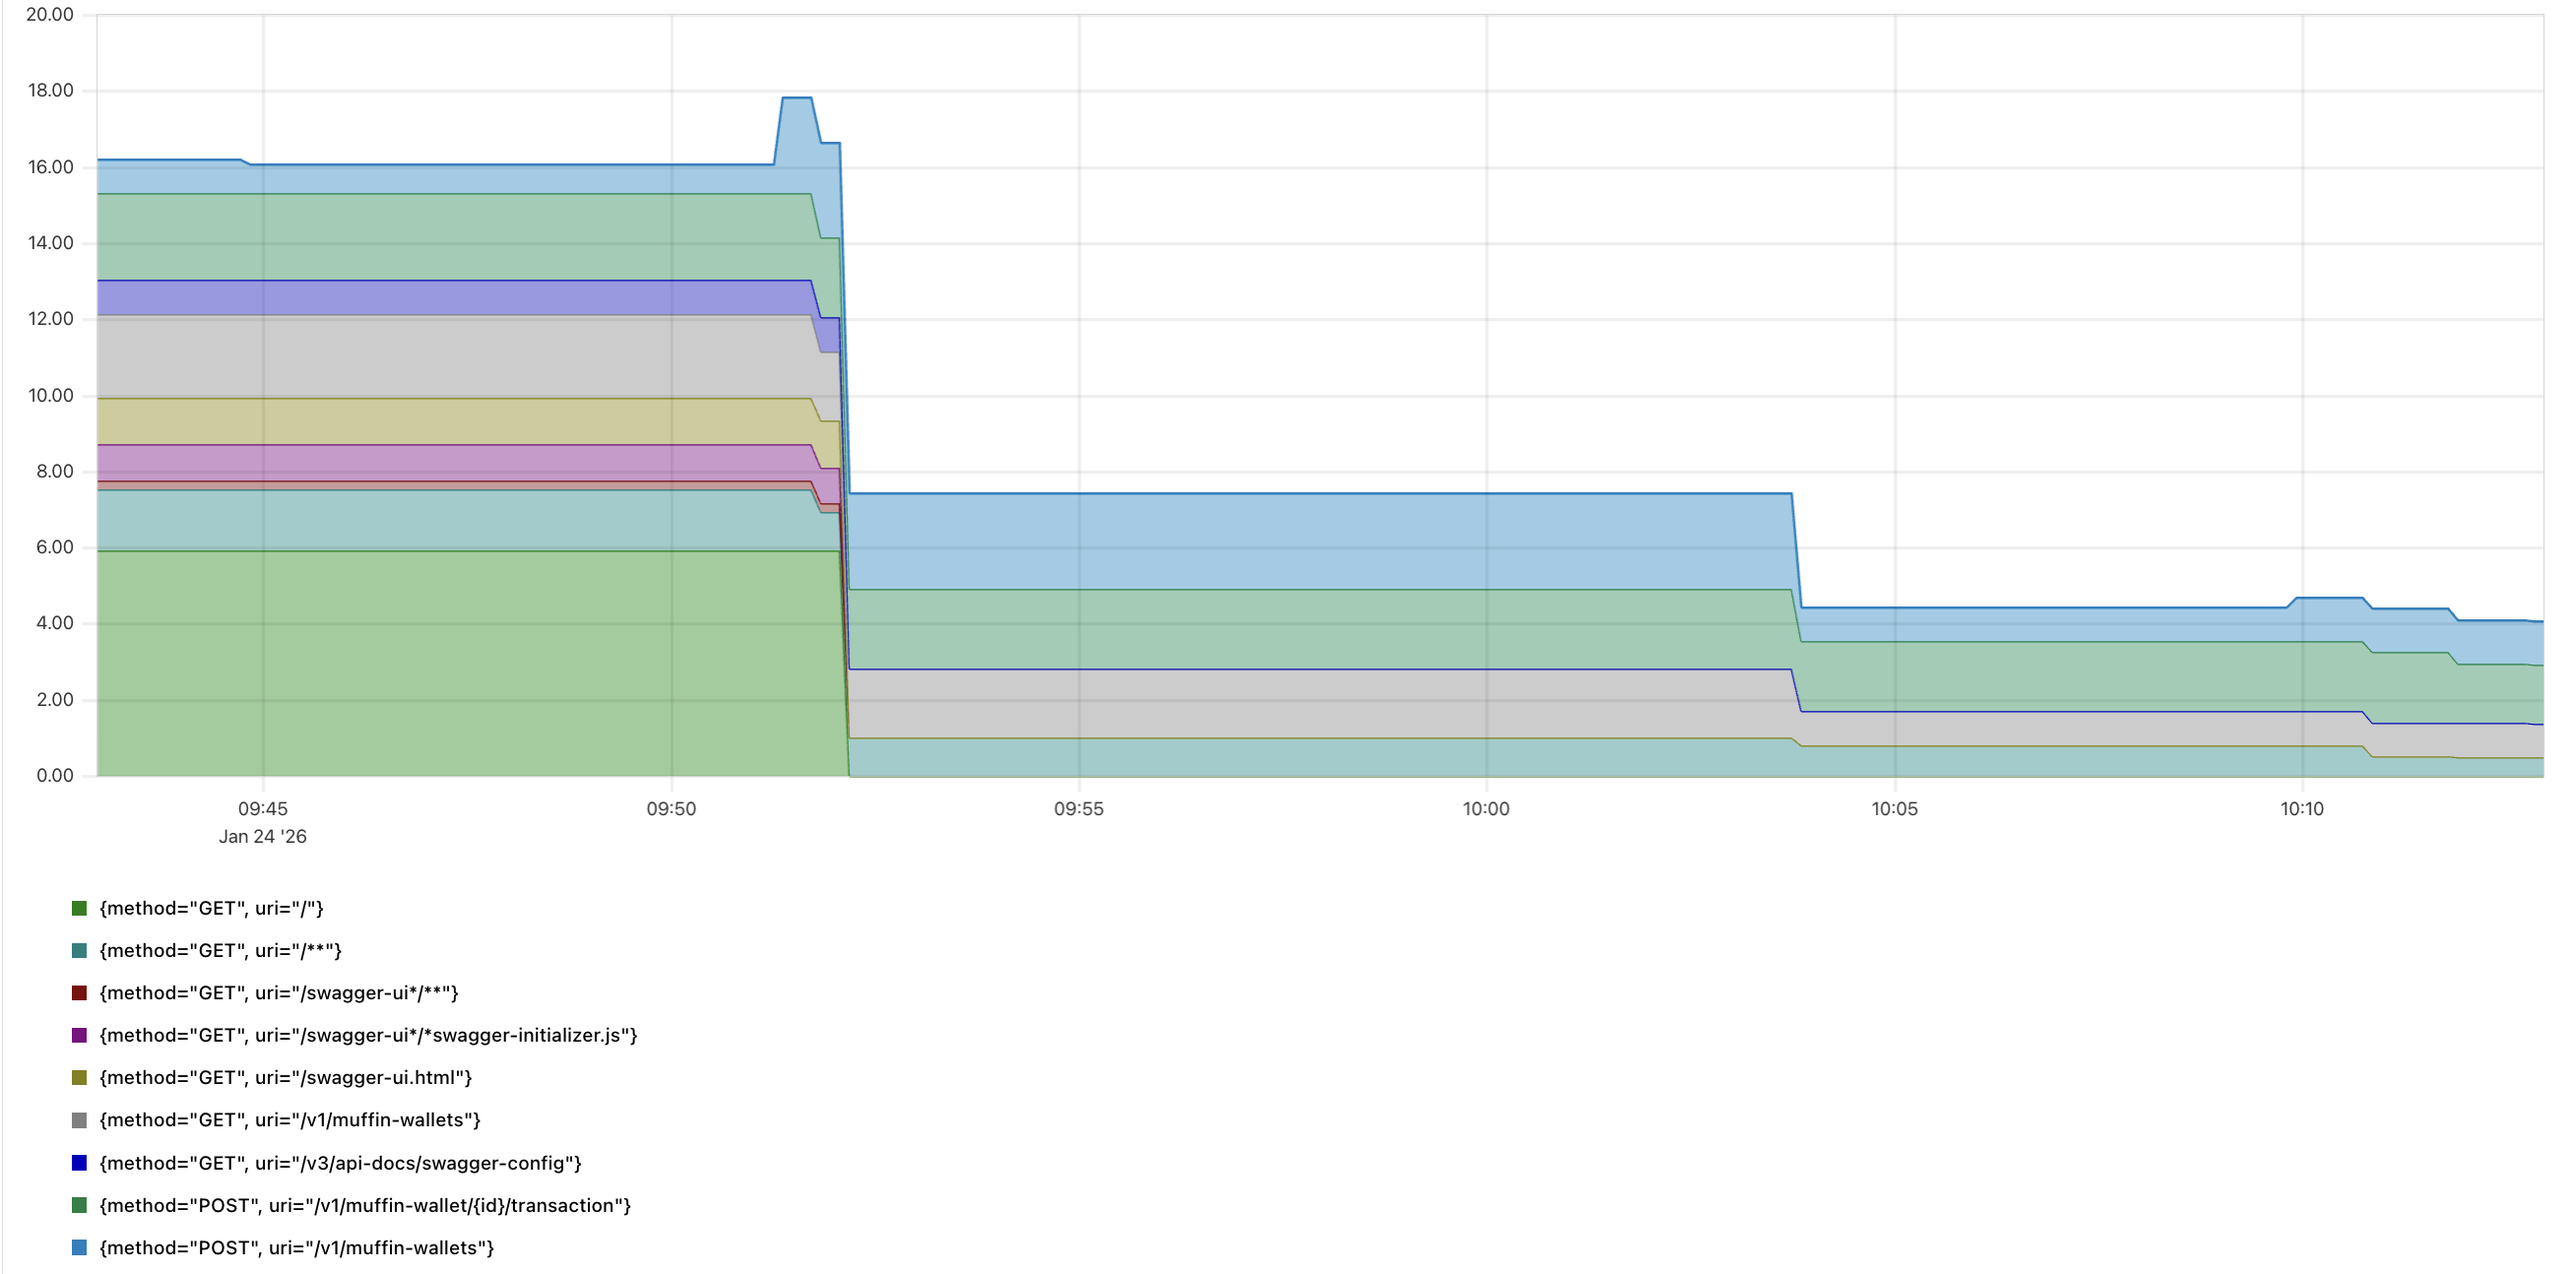
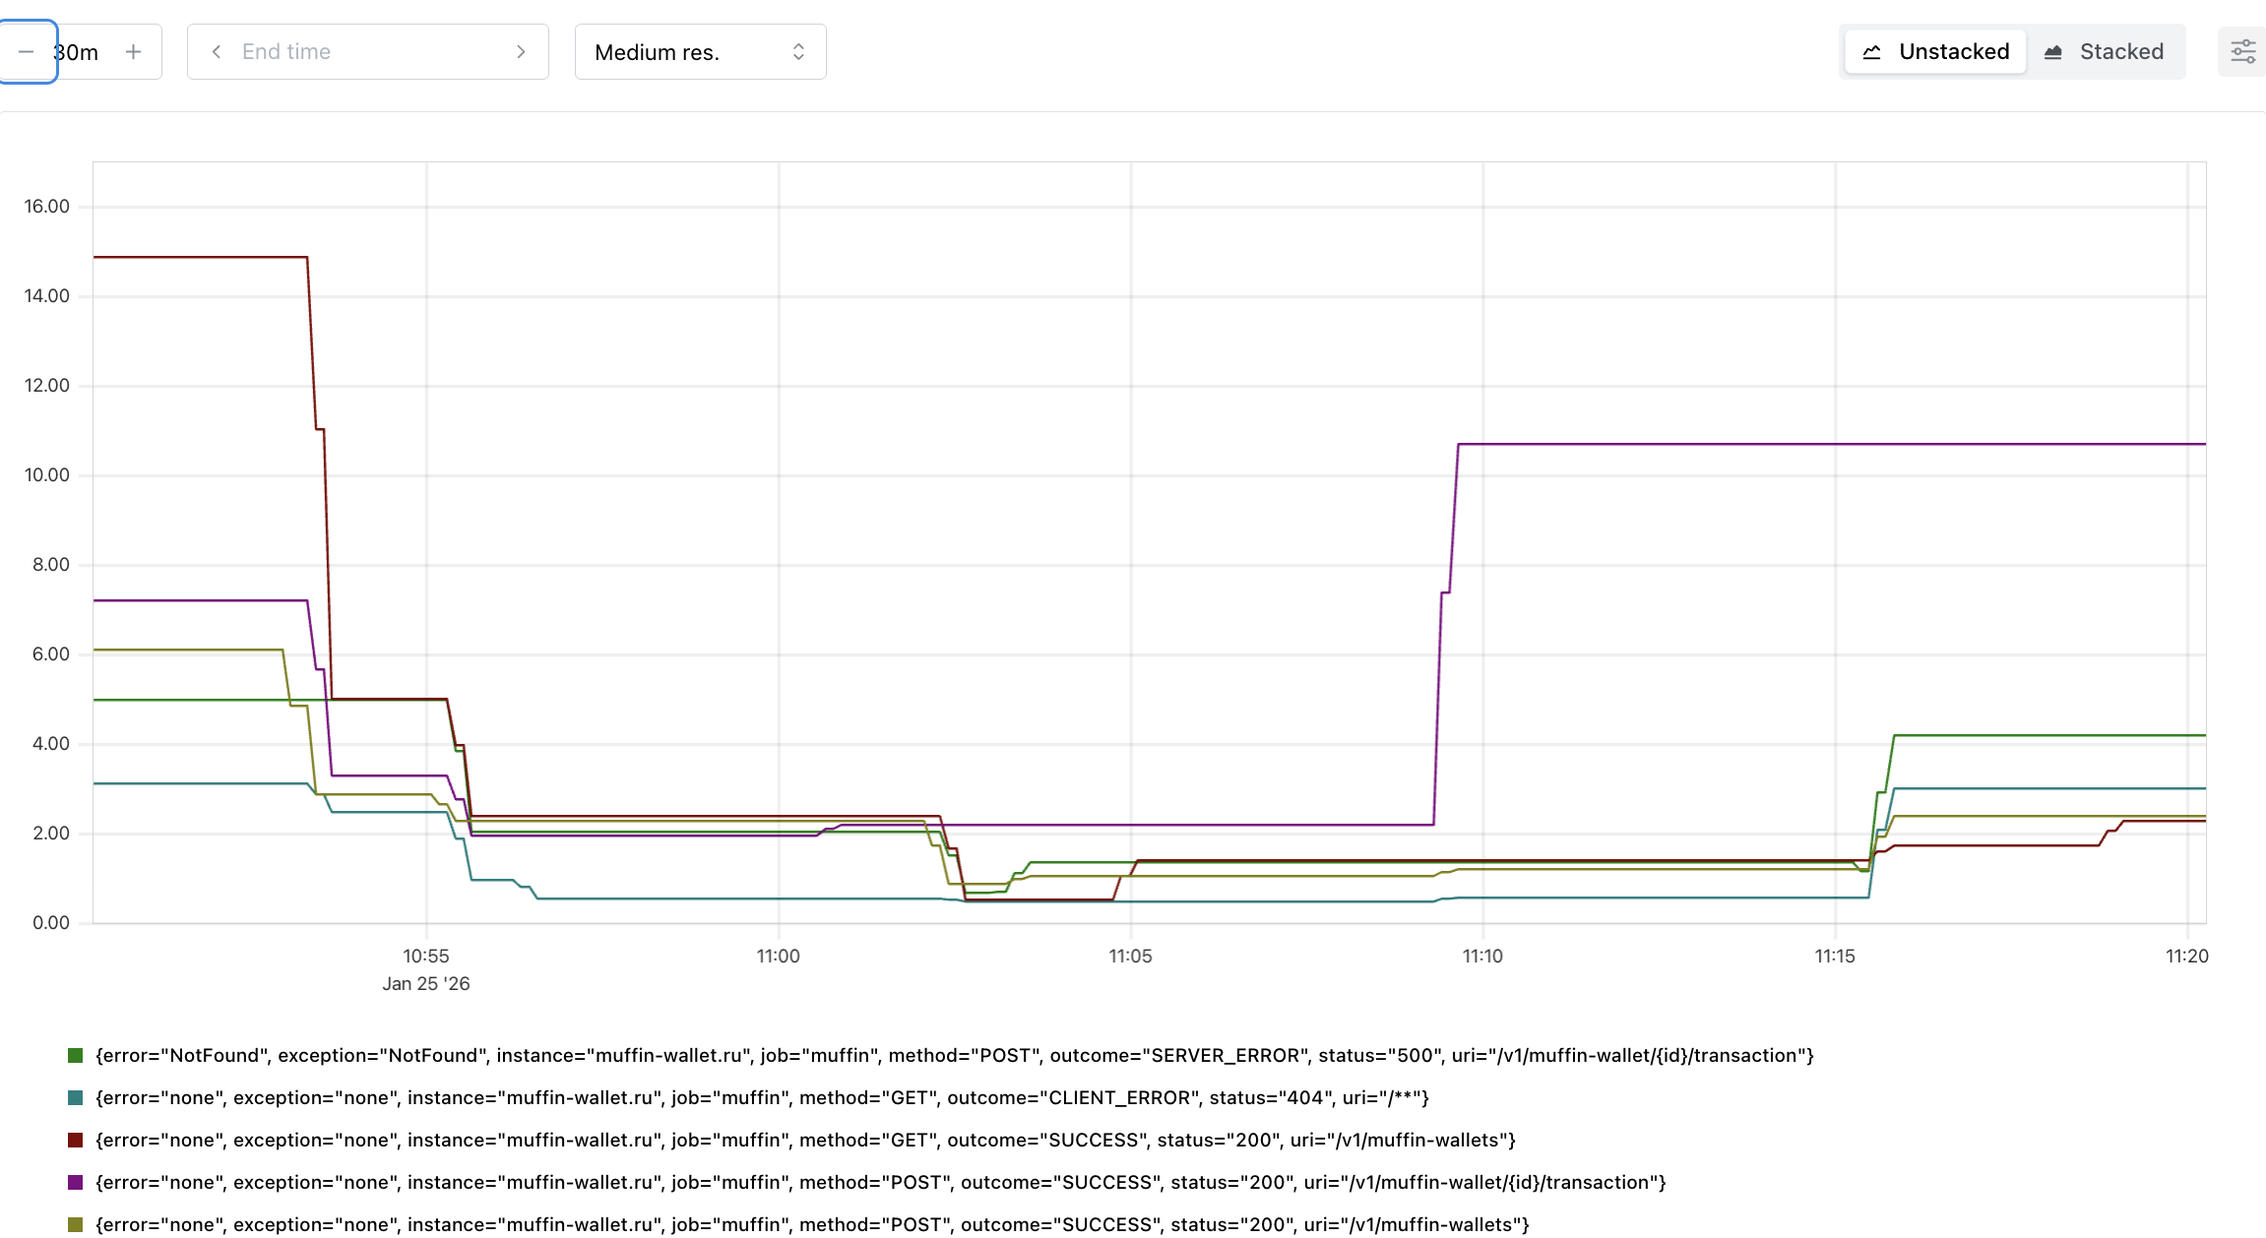
fix: some fixes

diff --git a/README.md b/README.md
@@ -101,20 +101,14 @@
 3. 99-й персентиль времени ответа HTTP (обработка запросов).
 
    ```
-    max by (method, uri) (
-      max_over_time(
-        http_server_requests_seconds_max{uri!~"/actuator.*"}[10m]
-      )
-    )
+   quantile_over_time(
+   0.99,
+   http_server_requests_seconds_max{uri!~"/actuator.*"}[10m]
+   )
    ```
 
    ![](./doc/metrics-img/3.png)
-   График корректен, потому что:
-   - используется метрика http_server_requests_seconds_max, отражающая реальное максимальное время обработки запросов
-   - применяется max_over_time, что позволяет учитывать пиковые значения задержек в заданном временном окне
-   - значения логично коррелируют с интенсивностью нагрузки и типом выполняемых операций
-
-   Данный график демонстрирует максимальное время обработки HTTP-запросов по основным эндпоинтам сервиса. В начале нагрузочного теста наблюдается рост задержек, связанный с одновременным выполнением большого количества запросов. По мере завершения потоков нагрузка снижается, что приводит к уменьшению времени обработки. Наибольшие значения зафиксированы для операций транзакций, что объясняется их повышенной сложностью и использованием базы данных. Полученные результаты подтверждают ожидаемое поведение системы под нагрузкой.
+   Для оценки 99-го персентиля времени обработки HTTP-запросов используется функция quantile_over_time, применённая к метрике максимального времени ответа. Это позволяет определить значение задержки, ниже которого укладывается 99% наблюдений за заданный временной интервал, и оценить пиковые задержки при нагрузке.
 
 4. Количество активных соединений к базе данных PostgreSQL.
 
